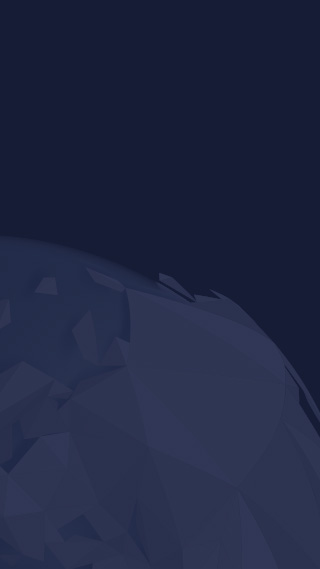
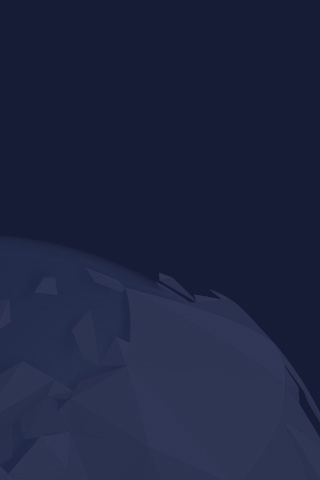
Верстка и стилизация промо секции под мобильные устройства

Changed region(s): [[0.2812, 0.4688, 1.0, 0.9062], [0.125, 0.4688, 0.1875, 0.5312]]

diff --git a/source/index.html b/source/index.html
@@ -10,12 +10,11 @@
   <link rel="stylesheet" href="css/style.css">
 </head>
 <body>
-  <header class="page-header">
+<header class="page-header">
     <div class="page-header__scroll-bg page-header__scroll-bg--white">
       <div class="page-header__wrapp">
         <div class="page-header__scroll">
           <a class="page-header__logo logo" href="#">
-            <img style="display: none;" class="logo__img" src="img/logo-mobile-white@1x.png" width="100" height="19" alt="Логотип Погнали">
             <img class="logo__img" src="img/logo-mobile-blue@1x.png" width="100" height="19" alt="Логотип Погнали">
           </a>
           <button class="page-header__toggle">
@@ -68,5 +67,36 @@
       </div>
     </div>
   </header>
+
+<main class="page-main">
+  <h1 class="visually-hidden">Сервис совместного путешествия "Погнали"</h1>
+
+  <section class="promo">
+    <div class="promo__content">
+      <h2 class="promo__title">В путешествие с крутыми попутчиками!</h2>
+      <div class="promo__wrapp">
+        <ul class="promo__list">
+        <li class="promo__item">
+          <a class="promo__link promo__link--phone" href="#">
+            <span class="visually-hidden">Телефон</span>
+          </a>
+        </li>
+        <li class="promo__item">
+          <a class="promo__link promo__link--email" href="#">
+            <span class="visually-hidden">Email</span>
+          </a>
+        </li>
+        <li class="promo__item">
+          <a class="promo__link promo__link--button button" href="#">Авторизация</a>
+        </li>
+      </ul>
+        <div class="promo__page-info page-info">
+          <p class="page-info__text">«Лучшее приложение, что я видел в жизни!»</p>
+          <p class="page-info__text page-info__text--bold">Мурат Эльтазин главный редактор газеты «гаджетлайф»</p>
+        </div>
+      </div>
+    </div>
+  </section>
+</main>
 </body>
 </html>

diff --git a/source/sass/blocks/promo.scss b/source/sass/blocks/promo.scss
@@ -1,0 +1,75 @@
+/* ==========================================================================
+   Промо секция
+   ========================================================================== */
+
+.promo {
+  padding-top: 30px;
+  padding-bottom: 110px;
+
+  color: $white-color;
+  background-color: $blue-color--dark;
+}
+
+.promo__content {
+  box-sizing: content-box;
+  display: flex;
+  flex-direction: column;
+  width: $width-mobile;
+  margin: 0 auto;
+  padding-left: 25px;
+  padding-right: 25px;
+
+  background-image: url("../img/traveller-illustration-mobile@1x.png"), url("../img/globe-back-mobile@1x.jpg");
+  background-repeat: no-repeat;
+  background-position: 88px 125px, 0 -100px;
+}
+
+.promo__title {
+  margin: 0;
+  margin-bottom: 240px;
+  padding: 0 16px;
+
+  font-size: 36px;
+  line-height: 40px;
+  font-weight: 700;
+  text-align: center;
+}
+
+.promo__wrapp {
+
+}
+
+.promo__list {
+  @include reset-ul;
+  display: flex;
+  margin-bottom: 28px;
+}
+
+.promo__item {
+
+}
+
+.promo__link {
+  display: block;
+  width: 40px;
+  height: 40px;
+  
+  &--phone {
+    background-color: $orange-color;
+    border-radius: 50%;
+  }
+
+  &--email {
+    background-color: $yellow-color--dark;
+    border-radius: 50%;
+  }
+
+  &--button {
+    min-width: 189px;
+  }
+}
+
+.promo__page-info {
+  padding-left: 25px;
+  padding-right: 90px;
+}

diff --git a/source/sass/globals/page-info.scss b/source/sass/globals/page-info.scss
@@ -1,0 +1,29 @@
+/* ==========================================================================
+   Информационный блок
+   ========================================================================== */
+
+.page-info {
+
+}
+
+.page-info__title {
+
+}
+
+.page-info__text {
+  margin: 0;
+  margin-bottom: 20px;
+
+  font-size: $fz;
+  line-height: $lh;
+  font-weight: 300;
+  color: $white-color;
+
+  &:last-child {
+    margin-bottom: 0;
+  }
+
+  &--bold {
+    font-weight: 700;
+  }
+}

diff --git a/source/sass/style.scss b/source/sass/style.scss
@@ -15,6 +15,7 @@
 @import "globals/container";
 @import "globals/logo";
 @import "globals/button";
+@import "globals/page-info";
 
 /* Навигации
    ========================================================================== */
@@ -27,3 +28,4 @@
    ========================================================================== */
 @import "blocks/page-header";
 @import "blocks/page-nav";
+@import "blocks/promo";

diff --git a/source/sass/globals/button.scss b/source/sass/globals/button.scss
@@ -3,6 +3,7 @@
    ========================================================================== */
 
 .button {
+  box-sizing: border-box;
   display: inline-block;
   min-width: 230px;
   margin: 0;
